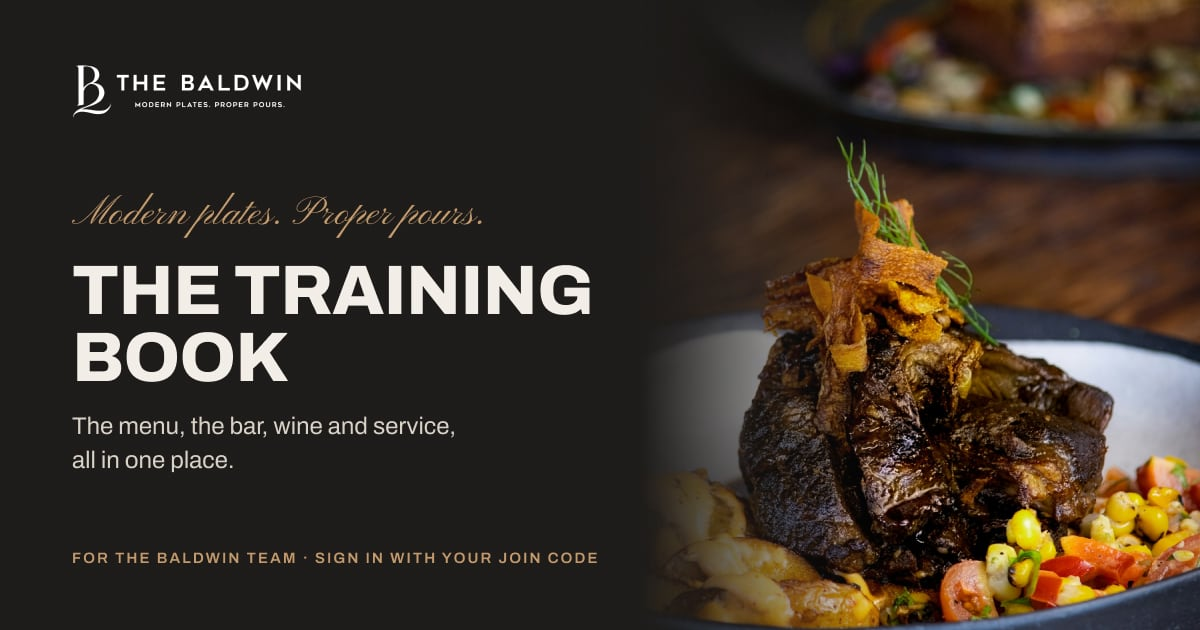
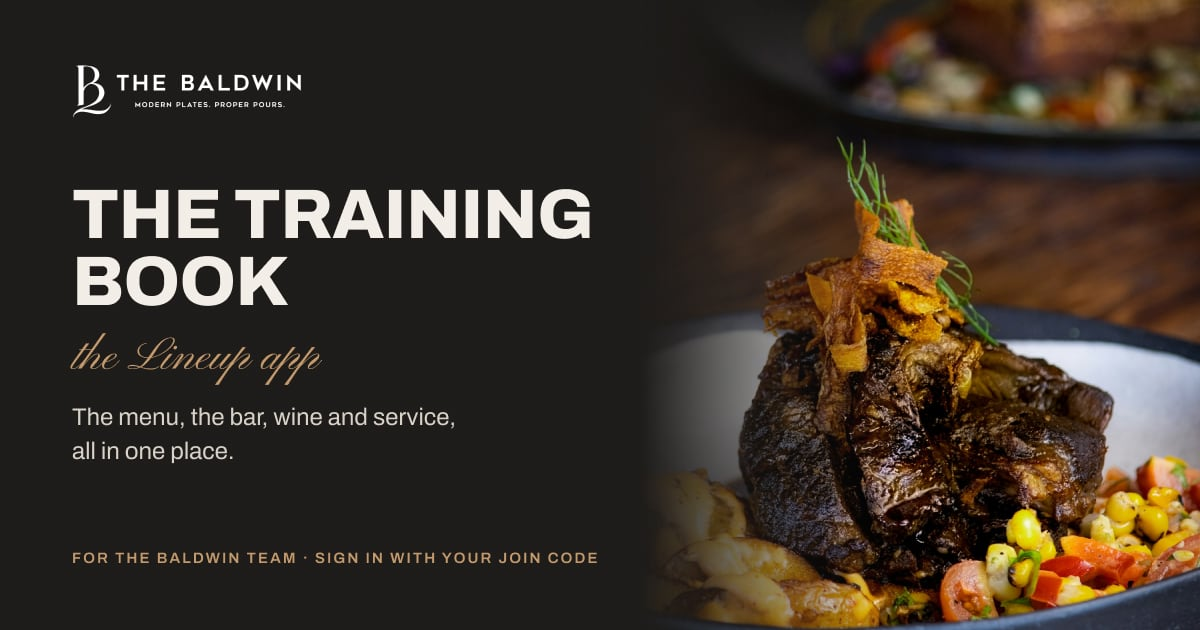
Name: The Baldwin Training Book, on the Lineup app
Tommy, Oct 28: keep 'The Baldwin Training Book' as the title, with 'the Lineup
app' under it in the script font. Share card (Figma 240:2) updated to match;
the book's name stays up front in the app and link previews, and Lineup is the
app name (site name, authenticator label, the generic store home, docs).

Changed region(s): [[0.0617, 0.3016, 0.4933, 0.6032], [0.0617, 0.6333, 0.4008, 0.754]]

diff --git a/index.html b/index.html
@@ -5,21 +5,21 @@
     <meta name="viewport" content="width=device-width, initial-scale=1.0" />
     <meta name="theme-color" content="#1E1C1A" />
     <title>The Baldwin Training Book</title>
-    <meta name="description" content="The menu, the bar, wine and service, all in one place. For The Baldwin team." />
+    <meta name="description" content="The menu, the bar, wine and service, all in one place. On the Lineup app." />
     <!-- Link previews (Messages, Slack, Facebook, LinkedIn, X): title, description and the share card from Figma (240:2). -->
     <meta property="og:type" content="website" />
-    <meta property="og:site_name" content="The Baldwin Training Book" />
+    <meta property="og:site_name" content="Lineup" />
     <meta property="og:title" content="The Baldwin Training Book" />
-    <meta property="og:description" content="The menu, the bar, wine and service, all in one place. For The Baldwin team: sign in with your join code." />
+    <meta property="og:description" content="The menu, the bar, wine and service, all in one place. On the Lineup app, for The Baldwin team." />
     <meta property="og:url" content="https://web-production-a7ffc.up.railway.app/" />
-    <meta property="og:image" content="https://web-production-a7ffc.up.railway.app/share.jpg" />
+    <meta property="og:image" content="https://web-production-a7ffc.up.railway.app/share.jpg?v=2" />
     <meta property="og:image:width" content="1200" />
     <meta property="og:image:height" content="630" />
-    <meta property="og:image:alt" content="The Baldwin Training Book: the Baldwin logo and a plate of braised short rib." />
+    <meta property="og:image:alt" content="The Baldwin Training Book, the Lineup app: the Baldwin logo and a plate of braised short rib." />
     <meta name="twitter:card" content="summary_large_image" />
     <meta name="twitter:title" content="The Baldwin Training Book" />
-    <meta name="twitter:description" content="The menu, the bar, wine and service, all in one place." />
-    <meta name="twitter:image" content="https://web-production-a7ffc.up.railway.app/share.jpg" />
+    <meta name="twitter:description" content="The menu, the bar, wine and service, all in one place. On the Lineup app." />
+    <meta name="twitter:image" content="https://web-production-a7ffc.up.railway.app/share.jpg?v=2" />
     <link rel="preconnect" href="https://fonts.googleapis.com" />
     <link rel="preconnect" href="https://fonts.gstatic.com" crossorigin />
     <link href="https://fonts.googleapis.com/css2?family=Archivo:ital,wght@0,400;0,500;0,600;0,700;0,800;1,400&family=Pinyon+Script&display=swap" rel="stylesheet" />

diff --git a/src/admin/screens.tsx b/src/admin/screens.tsx
@@ -57,7 +57,7 @@ export function SignIn() {
     setBusy(false);
   };
   if (ticket) return (
-    <AuthCard title="Two-step sign-in" sub="Open your authenticator app and type the 6-digit code for the Baldwin Training Book.">
+    <AuthCard title="Two-step sign-in" sub="Open your authenticator app and type the 6-digit code for Lineup.">
       <form className="stack" onSubmit={submitCode}>
         <label className="field"><span>Code</span><input inputMode="numeric" autoComplete="one-time-code" maxLength={6} value={code} onChange={(e) => setCode(e.target.value.replace(/\D/g, ''))} autoFocus /></label>
         {error && <ErrorNote error={error} />}
@@ -306,7 +306,7 @@ export function People() {
         <div className="join-code" aria-label="Join code">{data.company.joinCode}</div>
         <p className="muted small">Staff open <strong>{joinUrl.replace(/^https?:\/\//, '').replace(/\/$/, '')}</strong>, type this code, {multi ? 'pick their restaurant, ' : ''}pick their name (or “I’m New Here”) and a PIN. One code for {multi ? 'every restaurant in the group' : 'the whole team'}. Share it at line-up or post it in the back of house.</p>
         <div className="row">
-          <button className="btn ghost" onClick={() => copy(`Join the Baldwin training book: ${joinUrl}  Join code: ${data.company.joinCode}`, 'code')}>{copied === 'code' ? 'Copied' : 'Copy Code and Link'}</button>
+          <button className="btn ghost" onClick={() => copy(`Join the ${data.company.name} training book on the Lineup app: ${joinUrl}  Join code: ${data.company.joinCode}`, 'code')}>{copied === 'code' ? 'Copied' : 'Copy Code and Link'}</button>
           <button className="link-btn danger" onClick={() => { if (confirm('Make a new join code? The old one stops working. People already signed in stay signed in.')) void run(() => api('/api/team/join-code', { method: 'POST' }), 'New join code made.'); }}>New Code</button>
         </div>
       </section>

diff --git a/src/components/PageView.tsx b/src/components/PageView.tsx
@@ -35,7 +35,7 @@ function EmptyPage({ e, mainRef }: { e: Empty; mainRef: React.RefObject<HTMLElem
   const manager = canEdit(user);
   if (e.kind === 'home') return (
     <main ref={mainRef} className="page page-message store-home">
-      <p className="eyebrow">Training Book</p>
+      <p className="eyebrow">Lineup</p>
       <h1>{e.store}</h1>
       <p>The library below is ready now. Your menu, story and floor plan fill in as your managers add them.</p>
       {manager && <Link className="btn" to="/admin">Add Your Menu</Link>}

diff --git a/src/lib/brand.ts b/src/lib/brand.ts
@@ -1,3 +1,4 @@
 // Product name lives in one place, so a rename is one line.
-export const PRODUCT_NAME = 'The Baldwin Training Book';
+export const PRODUCT_NAME = 'The Baldwin Training Book'; // the book's name, up front
+export const APP_NAME = 'Lineup'; // the app it runs on (Tommy, Oct 28: "The Baldwin Training Book … below it, the Lineup app")
 export const CLIENT_NAME = 'The Baldwin';

diff --git a/src/styles.css b/src/styles.css
@@ -1,4 +1,4 @@
-/* The Baldwin Training Book. Colours come from the Figma file (YEaa2NZIPbFqldCyUxrIEi). */
+/* Lineup (The Baldwin's training book). Colours come from the Figma file (YEaa2NZIPbFqldCyUxrIEi). */
 :root {
   --ink: #1E1C1A;
   --cream: #F2EEE7;

diff --git a/README.md b/README.md
@@ -1,4 +1,6 @@
-# The Baldwin Training Book
+# Lineup
+
+The training app for restaurant teams. First customer: The Baldwin (Baldwin Restaurant Group). Was “The Baldwin Training Book” until Oct 28, 2026.
 
 Menu, bar and service training for Baldwin Restaurant Group. This repo is the **live demo**: a clickable build of the Figma design, with every screen, every link and search, plus an admin at `/admin` where managers edit pages, upload videos (or paste YouTube links) and add recipes and house cocktails.
 

diff --git a/SPEC.md b/SPEC.md
@@ -1,4 +1,4 @@
-# The Baldwin Training Book: spec
+# Lineup: spec (was The Baldwin Training Book)
 
 **Version:** 💼 an app to sell · **Client zero:** Baldwin Restaurant Group (The Baldwin, J.Baldwin's, Testa Barra)
 **Stage:** 9 · Public demo (a clickable build of the Figma design, with an admin for managers)
